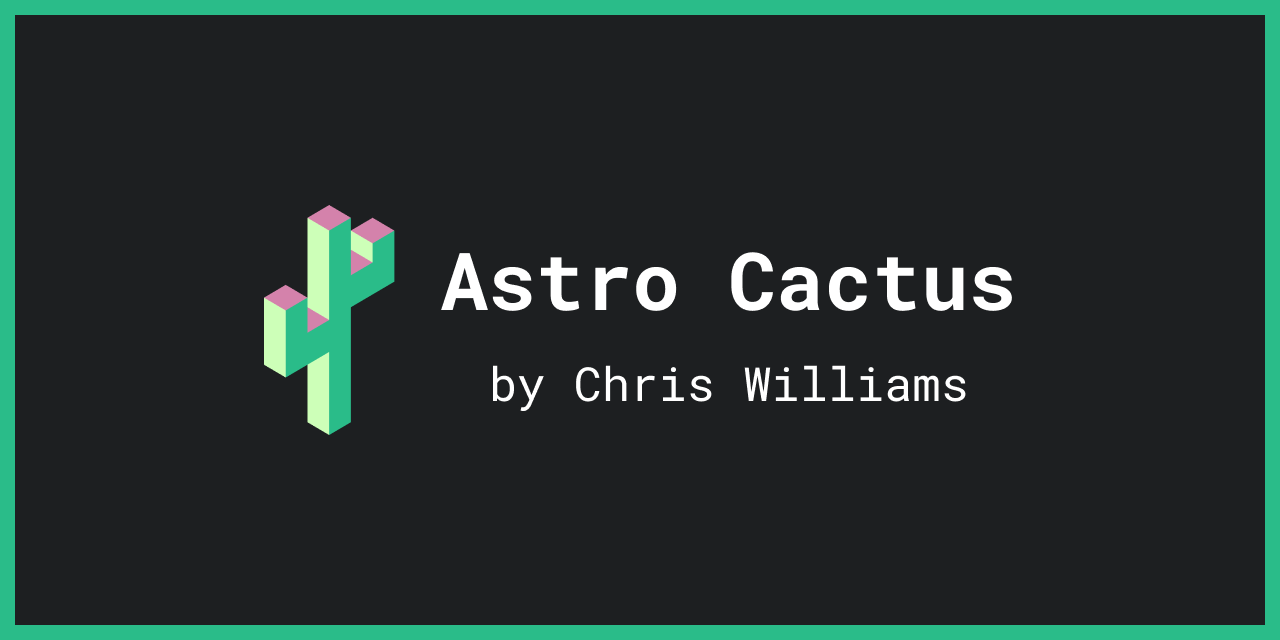
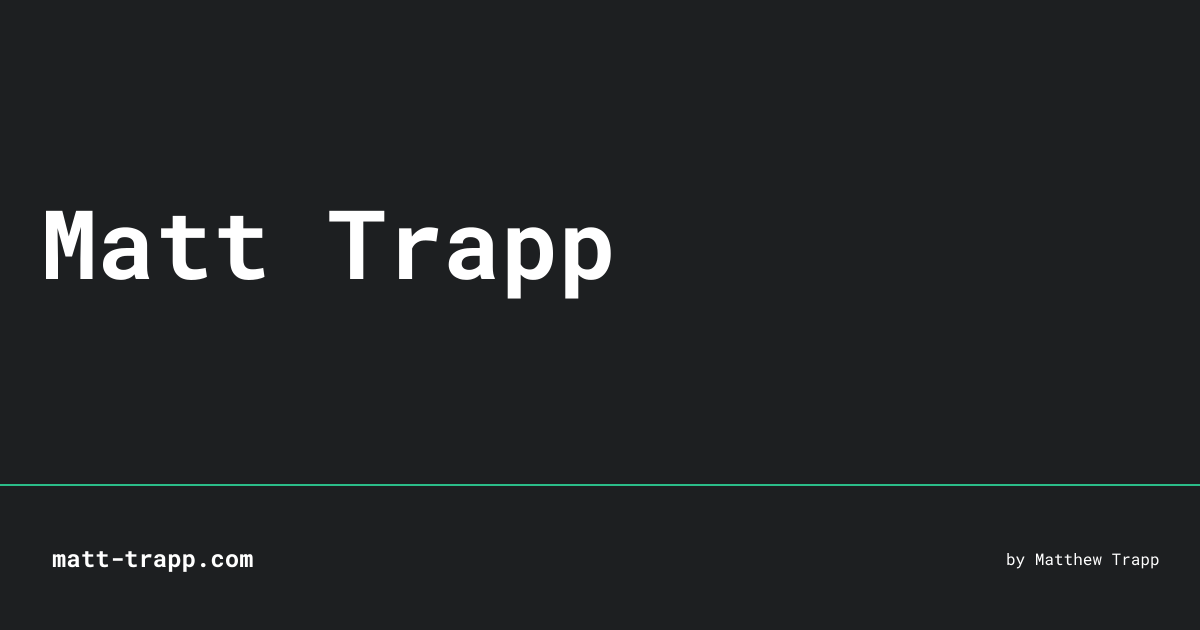
Removing all placeholders so I can launch

Changed region(s): [[0.0, 0.0, 1.0, 1.0], [0.37, 0.573, 0.7708, 0.6333], [0.555, 0.3921, 0.8017, 0.4825]]

diff --git a/src/site.config.ts b/src/site.config.ts
@@ -2,8 +2,7 @@ import type { AstroExpressiveCodeOptions } from "astro-expressive-code";
 import type { SiteConfig } from "@/types";
 
 export const siteConfig: SiteConfig = {
-	// TODO: replace with your real domain once you have one (or your GitHub Pages URL).
-	url: "https://trapp01.github.io/matt-trapp/",
+	url: "https://matt-trapp.com",
 	title: "Matt Trapp",
 	author: "Matthew Trapp",
 	description: "The personal site of Matt Trapp — writing and notes.",

diff --git a/src/content/post/hello-world.md b/src/content/post/hello-world.md
@@ -1,8 +1,10 @@
 ---
+# Template post — kept as a draft for reference. Drafts never appear in prod builds or RSS.
 title: Hello, world
 description: The first post on my new site — a quick note on why it exists and what I plan to put here.
 publishDate: "2026-06-24"
 tags: ["meta"]
+draft: true
 ---
 
 This is the first post on my site. I'm starting it as a place to write about what
